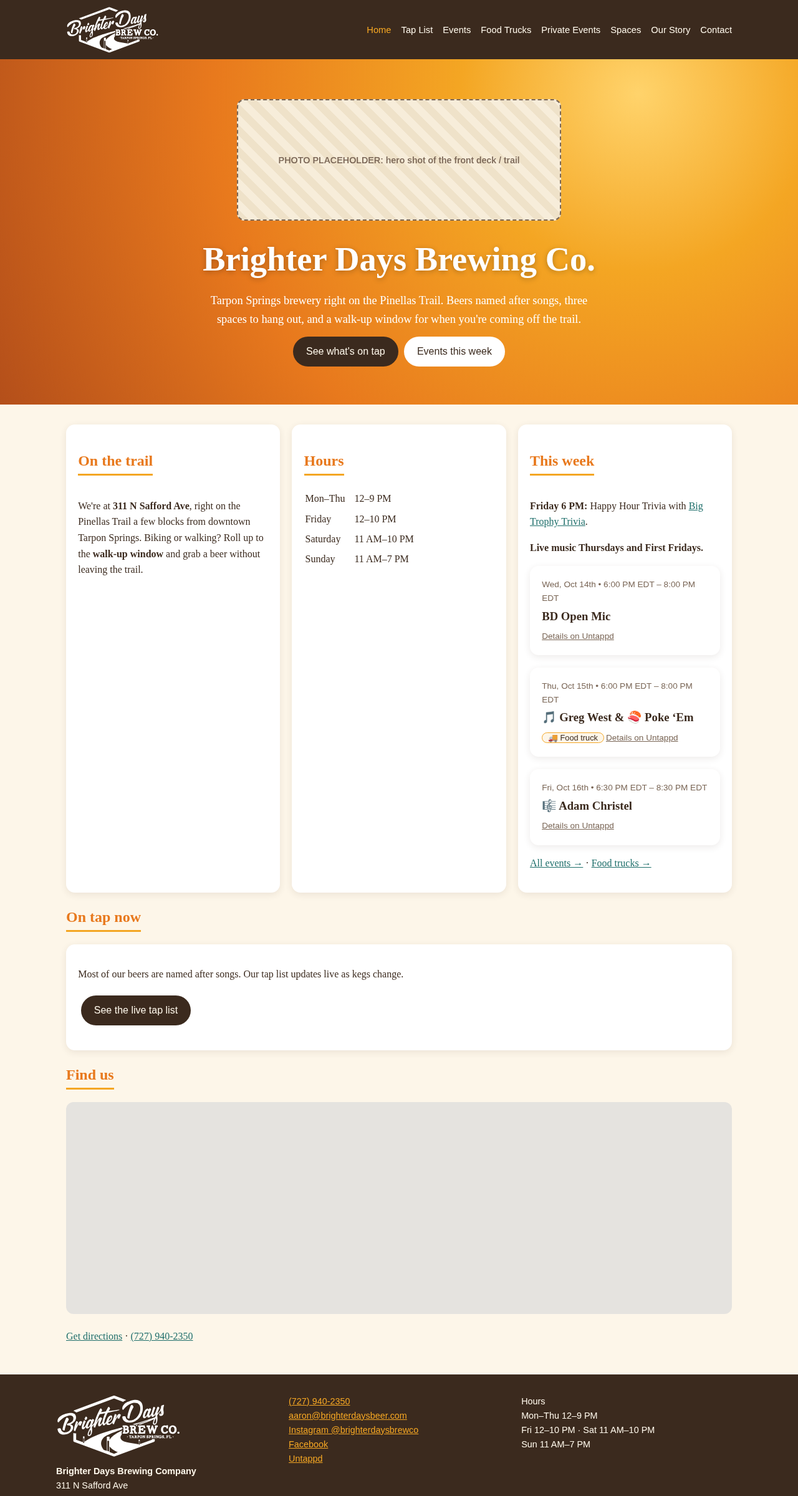
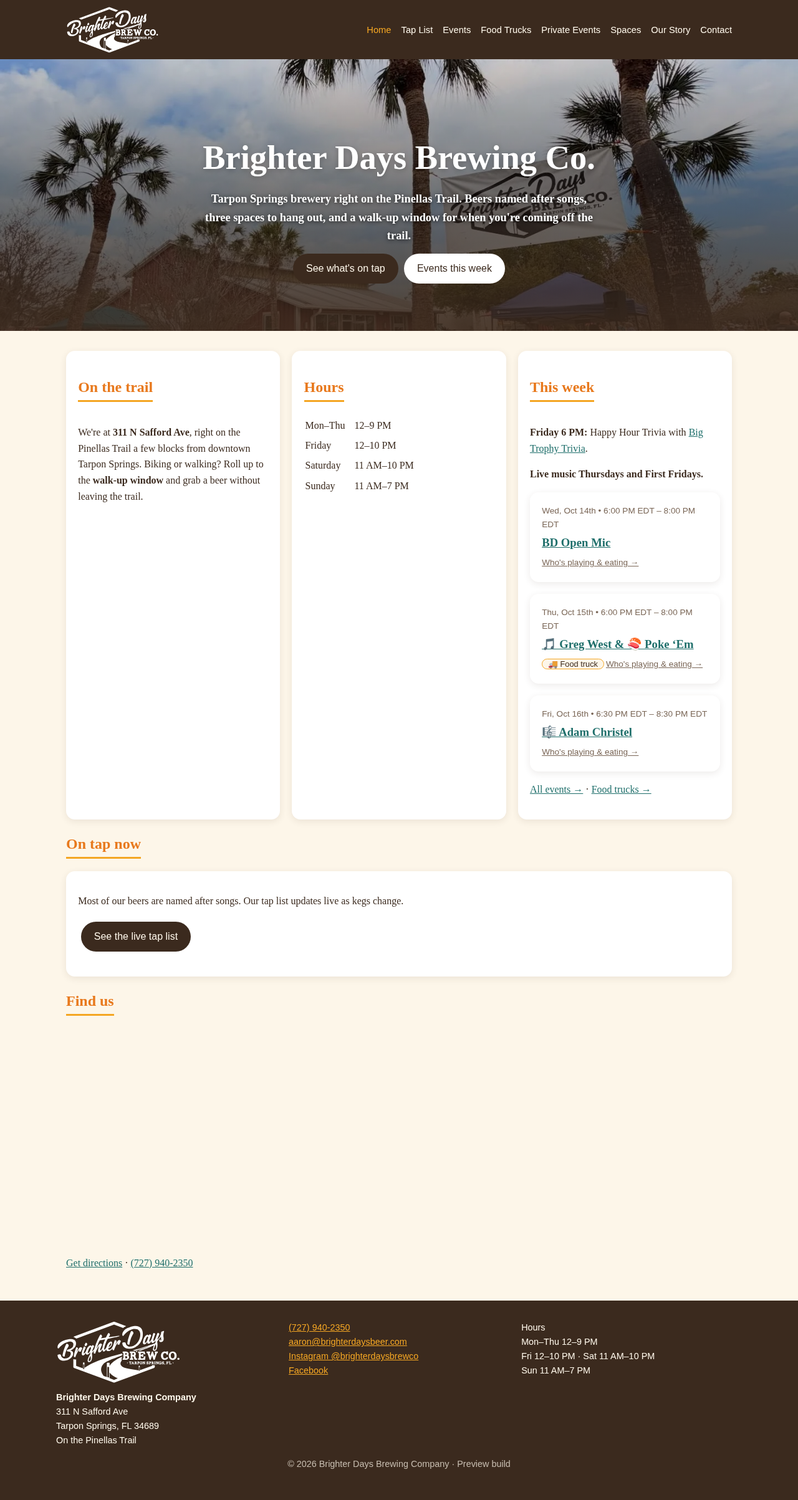
Remove customer-visible Untappd mentions; add home hero photo

diff --git a/index.html b/index.html
@@ -3,9 +3,8 @@
 <link rel="icon" href="favicon.ico" sizes="any"><link rel="icon" type="image/png" sizes="32x32" href="assets/img/logo/favicon-32.png"><link rel="icon" type="image/png" sizes="16x16" href="assets/img/logo/favicon-16.png"><link rel="icon" type="image/png" sizes="192x192" href="assets/img/logo/favicon-192.png"><link rel="apple-touch-icon" href="assets/img/logo/apple-touch-icon.png">
 <link rel="stylesheet" href="assets/style.css"></head><body>
 <header><div class="nav"><a class="logo" href="index.html" aria-label="Brighter Days Brew Co. home"><img class="logo-full" src="assets/img/logo/bd-logo-main-white.svg" alt="Brighter Days Brew Co., Tarpon Springs, FL" width="690" height="353"><img class="logo-mark" src="assets/img/logo/bd-starburst-white.png" alt="Brighter Days Brew Co." width="200" height="200"></a><button id="menuBtn" aria-label="Menu">☰</button><nav><ul><li><a href="index.html" class=on>Home</a></li><li><a href="taps.html">Tap List</a></li><li><a href="events.html">Events</a></li><li><a href="food-trucks.html">Food Trucks</a></li><li><a href="private-events.html">Private Events</a></li><li><a href="spaces.html">Spaces</a></li><li><a href="story.html">Our Story</a></li><li><a href="contact.html">Contact</a></li></ul></nav></div></header>
-<section class="hero"><div class="ph-img" style="max-width:520px;margin:0 auto 1.2rem;aspect-ratio:16/6;background-color:#fff3">PHOTO PLACEHOLDER: hero shot of the front deck / trail</div>
-<h1>Brighter Days Brewing Co.</h1><p>Tarpon Springs brewery right on the Pinellas Trail. Beers named after songs, three spaces to hang out, and a walk-up window for when you're coming off the trail.</p>
-<a class="btn" href="taps.html">See what's on tap</a><a class="btn alt" href="events.html">Events this week</a></section>
+<section class="hero photo"><picture><source srcset="assets/img/home-hero.webp" type="image/webp"><img class="hero-img" src="assets/img/home-hero.jpg" alt="Brighter Days Brew Co. banner among the palms outside the taproom on the Pinellas Trail" width="1440" height="810" fetchpriority="high"></picture><div class="hero-inner"><h1>Brighter Days Brewing Co.</h1><p>Tarpon Springs brewery right on the Pinellas Trail. Beers named after songs, three spaces to hang out, and a walk-up window for when you're coming off the trail.</p>
+<a class="btn" href="taps.html">See what's on tap</a><a class="btn alt" href="events.html">Events this week</a></div></section>
 <main><div class="grid">
 <div class="card"><h2>On the trail</h2><p>We're at <strong>311 N Safford Ave</strong>, right on the Pinellas Trail a few blocks from downtown Tarpon Springs. Biking or walking? Roll up to the <strong>walk-up window</strong> and grab a beer without leaving the trail.</p></div>
 <div class="card"><h2>Hours</h2><table class="hours"><tr><td>Mon–Thu</td><td>12–9 PM</td></tr><tr><td>Friday</td><td>12–10 PM</td></tr><tr><td>Saturday</td><td>11 AM–10 PM</td></tr><tr><td>Sunday</td><td>11 AM–7 PM</td></tr></table></div>
@@ -13,5 +12,5 @@
 </div>
 <h2>On tap now</h2><div class="card"><p>Most of our beers are named after songs. Our tap list updates live as kegs change.</p><p><a class="btn" href="taps.html">See the live tap list</a></p></div>
 <h2>Find us</h2><iframe class="map" loading="lazy" title="Map to 311 N Safford Ave, Tarpon Springs" src="https://maps.google.com/maps?q=311%20N%20Safford%20Ave%2C%20Tarpon%20Springs%2C%20FL%2034689&z=16&output=embed"></iframe><p><a href="https://www.google.com/maps/dir/?api=1&destination=311+N+Safford+Ave+Tarpon+Springs+FL+34689">Get directions</a> · <a href="tel:+17279402350">(727) 940-2350</a></p></main>
-<footer><div class="grid"><div><img src="assets/img/logo/bd-logo-main-white.svg" alt="Brighter Days Brew Co., Tarpon Springs, FL" style="width:200px;height:auto;display:block;margin-bottom:.6rem"><strong>Brighter Days Brewing Company</strong><br>311 N Safford Ave<br>Tarpon Springs, FL 34689<br>On the Pinellas Trail</div><div><a href="tel:+17279402350">(727) 940-2350</a><br><a href="mailto:aaron@brighterdaysbeer.com">aaron@brighterdaysbeer.com</a><br><a href="https://instagram.com/brighterdaysbrewco">Instagram @brighterdaysbrewco</a><br><a href="https://www.facebook.com/282372538847975">Facebook</a><br><a href="https://untappd.com/v/brighter-days-brewing-company/10061420">Untappd</a></div><div>Hours<br>Mon–Thu 12–9 PM<br>Fri 12–10 PM · Sat 11 AM–10 PM<br>Sun 11 AM–7 PM</div></div><p style="text-align:center;opacity:.7">© 2026 Brighter Days Brewing Company · Preview build</p></footer>
+<footer><div class="grid"><div><img src="assets/img/logo/bd-logo-main-white.svg" alt="Brighter Days Brew Co., Tarpon Springs, FL" style="width:200px;height:auto;display:block;margin-bottom:.6rem"><strong>Brighter Days Brewing Company</strong><br>311 N Safford Ave<br>Tarpon Springs, FL 34689<br>On the Pinellas Trail</div><div><a href="tel:+17279402350">(727) 940-2350</a><br><a href="mailto:aaron@brighterdaysbeer.com">aaron@brighterdaysbeer.com</a><br><a href="https://instagram.com/brighterdaysbrewco">Instagram @brighterdaysbrewco</a><br><a href="https://www.facebook.com/282372538847975">Facebook</a></div><div>Hours<br>Mon–Thu 12–9 PM<br>Fri 12–10 PM · Sat 11 AM–10 PM<br>Sun 11 AM–7 PM</div></div><p style="text-align:center;opacity:.7">© 2026 Brighter Days Brewing Company · Preview build</p></footer>
 <script src="assets/site.js"></script><script src="data/events.js"></script><script>renderEvents(document.getElementById("homeEvents"),3)</script></body></html>

diff --git a/event.html b/event.html
@@ -4,12 +4,12 @@
 <link rel="stylesheet" href="assets/style.css"></head><body>
 <header><div class="nav"><a class="logo" href="index.html" aria-label="Brighter Days Brew Co. home"><img class="logo-full" src="assets/img/logo/bd-logo-main-white.svg" alt="Brighter Days Brew Co., Tarpon Springs, FL" width="690" height="353"><img class="logo-mark" src="assets/img/logo/bd-starburst-white.png" alt="Brighter Days Brew Co." width="200" height="200"></a><button id="menuBtn" aria-label="Menu">☰</button><nav><ul><li><a href="index.html">Home</a></li><li><a href="taps.html">Tap List</a></li><li><a href="events.html">Events</a></li><li><a href="food-trucks.html">Food Trucks</a></li><li><a href="private-events.html">Private Events</a></li><li><a href="spaces.html">Spaces</a></li><li><a href="story.html">Our Story</a></li><li><a href="contact.html">Contact</a></li></ul></nav></div></header>
 <main><p class="small"><a href="events.html">← All events</a></p><div id="ev-detail"><p>Loading event…</p></div></main>
-<footer><div class="grid"><div><img src="assets/img/logo/bd-logo-main-white.svg" alt="Brighter Days Brew Co., Tarpon Springs, FL" style="width:200px;height:auto;display:block;margin-bottom:.6rem"><strong>Brighter Days Brewing Company</strong><br>311 N Safford Ave<br>Tarpon Springs, FL 34689<br>On the Pinellas Trail</div><div><a href="tel:+17279402350">(727) 940-2350</a><br><a href="mailto:aaron@brighterdaysbeer.com">aaron@brighterdaysbeer.com</a><br><a href="https://instagram.com/brighterdaysbrewco">Instagram @brighterdaysbrewco</a><br><a href="https://www.facebook.com/282372538847975">Facebook</a><br><a href="https://untappd.com/v/brighter-days-brewing-company/10061420">Untappd</a></div><div>Hours<br>Mon–Thu 12–9 PM<br>Fri 12–10 PM · Sat 11 AM–10 PM<br>Sun 11 AM–7 PM</div></div><p style="text-align:center;opacity:.7">© 2026 Brighter Days Brewing Company · Preview build</p></footer>
+<footer><div class="grid"><div><img src="assets/img/logo/bd-logo-main-white.svg" alt="Brighter Days Brew Co., Tarpon Springs, FL" style="width:200px;height:auto;display:block;margin-bottom:.6rem"><strong>Brighter Days Brewing Company</strong><br>311 N Safford Ave<br>Tarpon Springs, FL 34689<br>On the Pinellas Trail</div><div><a href="tel:+17279402350">(727) 940-2350</a><br><a href="mailto:aaron@brighterdaysbeer.com">aaron@brighterdaysbeer.com</a><br><a href="https://instagram.com/brighterdaysbrewco">Instagram @brighterdaysbrewco</a><br><a href="https://www.facebook.com/282372538847975">Facebook</a></div><div>Hours<br>Mon–Thu 12–9 PM<br>Fri 12–10 PM · Sat 11 AM–10 PM<br>Sun 11 AM–7 PM</div></div><p style="text-align:center;opacity:.7">© 2026 Brighter Days Brewing Company · Preview build</p></footer>
 <script src="assets/site.js"></script><script src="data/events.js"></script><script>
 (async()=>{const el=document.getElementById('ev-detail');const id=new URLSearchParams(location.search).get('id');const e=(window.BD_EVENTS?.events||[]).find(x=>x.id===id);
  if(!e){el.innerHTML='<h2>Event not found</h2><p>It may have passed. <a href="events.html">See upcoming events</a>.</p>';return}
  document.title=e.title.replace(/[^\p{L}\p{N}\s'&-]/gu,'').trim()+' | Brighter Days Brewing Company';
  const [perf,trucks]=await Promise.all([loadJSON('data/performers.json'),loadJSON('data/foodtrucks.json')]);
  const cards=[],plain=[];titleParts(e.title).forEach(p=>{const t=findEntry(p,trucks);if(t&&(t.menu||t.cuisine||Object.values(t.links||{}).some(Boolean))){cards.push(entryCard(t,'truck'));return}const m=findEntry(p,perf);const has=x=>x&&(x.bio||x.genre||Object.values(x.links||{}).some(Boolean));if(has(m)){cards.push(entryCard(m,'perf'));return}plain.push(p)});
- el.innerHTML=`<h2>${esc(e.title)}</h2><p><strong>${esc(e.when.replace(/ - .*• /,' – '))}</strong><br>Brighter Days Brewing Co., 311 N Safford Ave, Tarpon Springs</p>${cards.length?'<div class="grid">'+cards.join('')+'</div>':''}${plain.length?`<p>${plain.map(esc).join(' · ')}</p>`:''}<p class="small"><a href="${esc(e.url)}" target="_blank" rel="noopener">View on Untappd</a> · Lineups can change, so check <a href="https://instagram.com/brighterdaysbrewco">@brighterdaysbrewco</a>.</p>`})();
+ el.innerHTML=`<h2>${esc(e.title)}</h2><p><strong>${esc(e.when.replace(/ - .*• /,' – '))}</strong><br>Brighter Days Brewing Co., 311 N Safford Ave, Tarpon Springs</p>${cards.length?'<div class="grid">'+cards.join('')+'</div>':''}${plain.length?`<p>${plain.map(esc).join(' · ')}</p>`:''}<p class="small">Lineups can change, so check <a href="https://instagram.com/brighterdaysbrewco">@brighterdaysbrewco</a>.</p>`})();
 </script></body></html>

diff --git a/taps.html b/taps.html
@@ -3,9 +3,9 @@
 <link rel="icon" href="favicon.ico" sizes="any"><link rel="icon" type="image/png" sizes="32x32" href="assets/img/logo/favicon-32.png"><link rel="icon" type="image/png" sizes="16x16" href="assets/img/logo/favicon-16.png"><link rel="icon" type="image/png" sizes="192x192" href="assets/img/logo/favicon-192.png"><link rel="apple-touch-icon" href="assets/img/logo/apple-touch-icon.png">
 <link rel="stylesheet" href="assets/style.css"></head><body>
 <header><div class="nav"><a class="logo" href="index.html" aria-label="Brighter Days Brew Co. home"><img class="logo-full" src="assets/img/logo/bd-logo-main-white.svg" alt="Brighter Days Brew Co., Tarpon Springs, FL" width="690" height="353"><img class="logo-mark" src="assets/img/logo/bd-starburst-white.png" alt="Brighter Days Brew Co." width="200" height="200"></a><button id="menuBtn" aria-label="Menu">☰</button><nav><ul><li><a href="index.html">Home</a></li><li><a href="taps.html" class=on>Tap List</a></li><li><a href="events.html">Events</a></li><li><a href="food-trucks.html">Food Trucks</a></li><li><a href="private-events.html">Private Events</a></li><li><a href="spaces.html">Spaces</a></li><li><a href="story.html">Our Story</a></li><li><a href="contact.html">Contact</a></li></ul></nav></div></header>
-<main><h2>Tap list</h2><p>Most of our beers are named after songs. Here's what's pouring right now, straight from our <a href="https://untappd.com/v/brighter-days-brewing-company/10061420">Untappd menu</a>.</p><div id="menu-container"></div>
+<main><h2>Tap list</h2><p>Most of our beers are named after songs. Here's what's pouring right now.</p><div id="menu-container"></div>
 <script type="text/javascript">
 !function(e,t){var n=document.createElement("script"),a=document.getElementsByTagName("script")[0];n.async=1,a.parentNode.insertBefore(n,a),n.onload=n.onreadystatechange=function(e,a){(a||!n.readyState||/loaded|complete/.test(n.readyState))&&(n.onload=n.onreadystatechange=null,a||t&&t())},n.src=e}("https://embed-menu-preloader.untappdapi.com/embed-menu-preloader.min.js",(function(){PreloadEmbedMenu("menu-container",48872,174590)}));
-</script><noscript><p>Turn on JavaScript to see the tap list, or <a href="https://untappd.com/v/brighter-days-brewing-company/10061420">view it on Untappd</a>.</p></noscript></main>
-<footer><div class="grid"><div><img src="assets/img/logo/bd-logo-main-white.svg" alt="Brighter Days Brew Co., Tarpon Springs, FL" style="width:200px;height:auto;display:block;margin-bottom:.6rem"><strong>Brighter Days Brewing Company</strong><br>311 N Safford Ave<br>Tarpon Springs, FL 34689<br>On the Pinellas Trail</div><div><a href="tel:+17279402350">(727) 940-2350</a><br><a href="mailto:aaron@brighterdaysbeer.com">aaron@brighterdaysbeer.com</a><br><a href="https://instagram.com/brighterdaysbrewco">Instagram @brighterdaysbrewco</a><br><a href="https://www.facebook.com/282372538847975">Facebook</a><br><a href="https://untappd.com/v/brighter-days-brewing-company/10061420">Untappd</a></div><div>Hours<br>Mon–Thu 12–9 PM<br>Fri 12–10 PM · Sat 11 AM–10 PM<br>Sun 11 AM–7 PM</div></div><p style="text-align:center;opacity:.7">© 2026 Brighter Days Brewing Company · Preview build</p></footer>
+</script><noscript><p>Turn on JavaScript to see the tap list, or call us at <a href="tel:+17279402350">(727) 940-2350</a>.</p></noscript></main>
+<footer><div class="grid"><div><img src="assets/img/logo/bd-logo-main-white.svg" alt="Brighter Days Brew Co., Tarpon Springs, FL" style="width:200px;height:auto;display:block;margin-bottom:.6rem"><strong>Brighter Days Brewing Company</strong><br>311 N Safford Ave<br>Tarpon Springs, FL 34689<br>On the Pinellas Trail</div><div><a href="tel:+17279402350">(727) 940-2350</a><br><a href="mailto:aaron@brighterdaysbeer.com">aaron@brighterdaysbeer.com</a><br><a href="https://instagram.com/brighterdaysbrewco">Instagram @brighterdaysbrewco</a><br><a href="https://www.facebook.com/282372538847975">Facebook</a></div><div>Hours<br>Mon–Thu 12–9 PM<br>Fri 12–10 PM · Sat 11 AM–10 PM<br>Sun 11 AM–7 PM</div></div><p style="text-align:center;opacity:.7">© 2026 Brighter Days Brewing Company · Preview build</p></footer>
 <script src="assets/site.js"></script></body></html>

diff --git a/events.html b/events.html
@@ -3,6 +3,6 @@
 <link rel="icon" href="favicon.ico" sizes="any"><link rel="icon" type="image/png" sizes="32x32" href="assets/img/logo/favicon-32.png"><link rel="icon" type="image/png" sizes="16x16" href="assets/img/logo/favicon-16.png"><link rel="icon" type="image/png" sizes="192x192" href="assets/img/logo/favicon-192.png"><link rel="apple-touch-icon" href="assets/img/logo/apple-touch-icon.png">
 <link rel="stylesheet" href="assets/style.css"></head><body>
 <header><div class="nav"><a class="logo" href="index.html" aria-label="Brighter Days Brew Co. home"><img class="logo-full" src="assets/img/logo/bd-logo-main-white.svg" alt="Brighter Days Brew Co., Tarpon Springs, FL" width="690" height="353"><img class="logo-mark" src="assets/img/logo/bd-starburst-white.png" alt="Brighter Days Brew Co." width="200" height="200"></a><button id="menuBtn" aria-label="Menu">☰</button><nav><ul><li><a href="index.html">Home</a></li><li><a href="taps.html">Tap List</a></li><li><a href="events.html" class=on>Events</a></li><li><a href="food-trucks.html">Food Trucks</a></li><li><a href="private-events.html">Private Events</a></li><li><a href="spaces.html">Spaces</a></li><li><a href="story.html">Our Story</a></li><li><a href="contact.html">Contact</a></li></ul></nav></div></header>
-<main><h2>Events</h2><div class="card" style="margin-bottom:1rem"><strong>Every Friday, 6 PM:</strong> Happy Hour Trivia hosted by <a href="https://bigtrophytrivia.com/brighter-days">Big Trophy Trivia</a>.</div><div class="card" style="margin-bottom:1rem"><strong>Live music Thursdays and First Fridays.</strong></div><h3>Coming up</h3><div id="ev"></div><p class="small">Events are pulled from our Untappd venue page.</p></main>
-<footer><div class="grid"><div><img src="assets/img/logo/bd-logo-main-white.svg" alt="Brighter Days Brew Co., Tarpon Springs, FL" style="width:200px;height:auto;display:block;margin-bottom:.6rem"><strong>Brighter Days Brewing Company</strong><br>311 N Safford Ave<br>Tarpon Springs, FL 34689<br>On the Pinellas Trail</div><div><a href="tel:+17279402350">(727) 940-2350</a><br><a href="mailto:aaron@brighterdaysbeer.com">aaron@brighterdaysbeer.com</a><br><a href="https://instagram.com/brighterdaysbrewco">Instagram @brighterdaysbrewco</a><br><a href="https://www.facebook.com/282372538847975">Facebook</a><br><a href="https://untappd.com/v/brighter-days-brewing-company/10061420">Untappd</a></div><div>Hours<br>Mon–Thu 12–9 PM<br>Fri 12–10 PM · Sat 11 AM–10 PM<br>Sun 11 AM–7 PM</div></div><p style="text-align:center;opacity:.7">© 2026 Brighter Days Brewing Company · Preview build</p></footer>
+<main><h2>Events</h2><div class="card" style="margin-bottom:1rem"><strong>Every Friday, 6 PM:</strong> Happy Hour Trivia hosted by <a href="https://bigtrophytrivia.com/brighter-days">Big Trophy Trivia</a>.</div><div class="card" style="margin-bottom:1rem"><strong>Live music Thursdays and First Fridays.</strong></div><h3>Coming up</h3><div id="ev"></div></main>
+<footer><div class="grid"><div><img src="assets/img/logo/bd-logo-main-white.svg" alt="Brighter Days Brew Co., Tarpon Springs, FL" style="width:200px;height:auto;display:block;margin-bottom:.6rem"><strong>Brighter Days Brewing Company</strong><br>311 N Safford Ave<br>Tarpon Springs, FL 34689<br>On the Pinellas Trail</div><div><a href="tel:+17279402350">(727) 940-2350</a><br><a href="mailto:aaron@brighterdaysbeer.com">aaron@brighterdaysbeer.com</a><br><a href="https://instagram.com/brighterdaysbrewco">Instagram @brighterdaysbrewco</a><br><a href="https://www.facebook.com/282372538847975">Facebook</a></div><div>Hours<br>Mon–Thu 12–9 PM<br>Fri 12–10 PM · Sat 11 AM–10 PM<br>Sun 11 AM–7 PM</div></div><p style="text-align:center;opacity:.7">© 2026 Brighter Days Brewing Company · Preview build</p></footer>
 <script src="assets/site.js"></script><script src="data/events.js"></script><script>renderEvents(document.getElementById("ev"))</script></body></html>

diff --git a/contact.html b/contact.html
@@ -4,5 +4,5 @@
 <link rel="stylesheet" href="assets/style.css"></head><body>
 <header><div class="nav"><a class="logo" href="index.html" aria-label="Brighter Days Brew Co. home"><img class="logo-full" src="assets/img/logo/bd-logo-main-white.svg" alt="Brighter Days Brew Co., Tarpon Springs, FL" width="690" height="353"><img class="logo-mark" src="assets/img/logo/bd-starburst-white.png" alt="Brighter Days Brew Co." width="200" height="200"></a><button id="menuBtn" aria-label="Menu">☰</button><nav><ul><li><a href="index.html">Home</a></li><li><a href="taps.html">Tap List</a></li><li><a href="events.html">Events</a></li><li><a href="food-trucks.html">Food Trucks</a></li><li><a href="private-events.html">Private Events</a></li><li><a href="spaces.html">Spaces</a></li><li><a href="story.html">Our Story</a></li><li><a href="contact.html" class=on>Contact</a></li></ul></nav></div></header>
 <main><h2>Contact & visit</h2><div class="grid"><div class="card"><h3>Brighter Days Brewing Company</h3><p>311 N Safford Ave<br>Tarpon Springs, FL 34689</p><p><a href="tel:+17279402350">(727) 940-2350</a></p><p><a href="https://instagram.com/brighterdaysbrewco">Instagram @brighterdaysbrewco</a><br><a href="https://www.facebook.com/282372538847975">Facebook</a></p><p>Email: <a href="mailto:aaron@brighterdaysbeer.com">aaron@brighterdaysbeer.com</a></p></div><div class="card"><h3>Hours</h3><table class="hours"><tr><td>Mon–Thu</td><td>12–9 PM</td></tr><tr><td>Friday</td><td>12–10 PM</td></tr><tr><td>Saturday</td><td>11 AM–10 PM</td></tr><tr><td>Sunday</td><td>11 AM–7 PM</td></tr></table></div></div><h3>Map</h3><iframe class="map" loading="lazy" title="Map to 311 N Safford Ave, Tarpon Springs" src="https://maps.google.com/maps?q=311%20N%20Safford%20Ave%2C%20Tarpon%20Springs%2C%20FL%2034689&z=16&output=embed"></iframe></main>
-<footer><div class="grid"><div><img src="assets/img/logo/bd-logo-main-white.svg" alt="Brighter Days Brew Co., Tarpon Springs, FL" style="width:200px;height:auto;display:block;margin-bottom:.6rem"><strong>Brighter Days Brewing Company</strong><br>311 N Safford Ave<br>Tarpon Springs, FL 34689<br>On the Pinellas Trail</div><div><a href="tel:+17279402350">(727) 940-2350</a><br><a href="mailto:aaron@brighterdaysbeer.com">aaron@brighterdaysbeer.com</a><br><a href="https://instagram.com/brighterdaysbrewco">Instagram @brighterdaysbrewco</a><br><a href="https://www.facebook.com/282372538847975">Facebook</a><br><a href="https://untappd.com/v/brighter-days-brewing-company/10061420">Untappd</a></div><div>Hours<br>Mon–Thu 12–9 PM<br>Fri 12–10 PM · Sat 11 AM–10 PM<br>Sun 11 AM–7 PM</div></div><p style="text-align:center;opacity:.7">© 2026 Brighter Days Brewing Company · Preview build</p></footer>
+<footer><div class="grid"><div><img src="assets/img/logo/bd-logo-main-white.svg" alt="Brighter Days Brew Co., Tarpon Springs, FL" style="width:200px;height:auto;display:block;margin-bottom:.6rem"><strong>Brighter Days Brewing Company</strong><br>311 N Safford Ave<br>Tarpon Springs, FL 34689<br>On the Pinellas Trail</div><div><a href="tel:+17279402350">(727) 940-2350</a><br><a href="mailto:aaron@brighterdaysbeer.com">aaron@brighterdaysbeer.com</a><br><a href="https://instagram.com/brighterdaysbrewco">Instagram @brighterdaysbrewco</a><br><a href="https://www.facebook.com/282372538847975">Facebook</a></div><div>Hours<br>Mon–Thu 12–9 PM<br>Fri 12–10 PM · Sat 11 AM–10 PM<br>Sun 11 AM–7 PM</div></div><p style="text-align:center;opacity:.7">© 2026 Brighter Days Brewing Company · Preview build</p></footer>
 <script src="assets/site.js"></script></body></html>

diff --git a/story.html b/story.html
@@ -4,5 +4,5 @@
 <link rel="stylesheet" href="assets/style.css"></head><body>
 <header><div class="nav"><a class="logo" href="index.html" aria-label="Brighter Days Brew Co. home"><img class="logo-full" src="assets/img/logo/bd-logo-main-white.svg" alt="Brighter Days Brew Co., Tarpon Springs, FL" width="690" height="353"><img class="logo-mark" src="assets/img/logo/bd-starburst-white.png" alt="Brighter Days Brew Co." width="200" height="200"></a><button id="menuBtn" aria-label="Menu">☰</button><nav><ul><li><a href="index.html">Home</a></li><li><a href="taps.html">Tap List</a></li><li><a href="events.html">Events</a></li><li><a href="food-trucks.html">Food Trucks</a></li><li><a href="private-events.html">Private Events</a></li><li><a href="spaces.html">Spaces</a></li><li><a href="story.html" class=on>Our Story</a></li><li><a href="contact.html">Contact</a></li></ul></nav></div></header>
 <main><h2>Our story</h2><div class="grid"><div class="card"><p>We opened in 2020 with one idea: a big patio, cold beer, and live music most nights. Six years later, that's still the whole plan.</p><p>Music is the heartbeat here, and every beer we brew is named after a song. Thursdays and First Fridays bring bands to the taproom, from funk and soul to jam-band improv and laid-back country.</p><p>Three rooms, one easy vibe: the indoor bar, the open-air garage with the game on, and a big deck right off the Pinellas Trail, with Adirondack chairs and umbrellas. Our walk-up window means bikers and trail walkers are as much a part of the crowd as the regulars.</p><p>We're family-friendly and dog-friendly. Since 2022, every March we've hosted the 5K for Autism, which funds the Heart 4 Kids scholarship.</p></div><div class="ph-img">PHOTO PLACEHOLDER: owner / brewhouse</div></div></main>
-<footer><div class="grid"><div><img src="assets/img/logo/bd-logo-main-white.svg" alt="Brighter Days Brew Co., Tarpon Springs, FL" style="width:200px;height:auto;display:block;margin-bottom:.6rem"><strong>Brighter Days Brewing Company</strong><br>311 N Safford Ave<br>Tarpon Springs, FL 34689<br>On the Pinellas Trail</div><div><a href="tel:+17279402350">(727) 940-2350</a><br><a href="mailto:aaron@brighterdaysbeer.com">aaron@brighterdaysbeer.com</a><br><a href="https://instagram.com/brighterdaysbrewco">Instagram @brighterdaysbrewco</a><br><a href="https://www.facebook.com/282372538847975">Facebook</a><br><a href="https://untappd.com/v/brighter-days-brewing-company/10061420">Untappd</a></div><div>Hours<br>Mon–Thu 12–9 PM<br>Fri 12–10 PM · Sat 11 AM–10 PM<br>Sun 11 AM–7 PM</div></div><p style="text-align:center;opacity:.7">© 2026 Brighter Days Brewing Company · Preview build</p></footer>
+<footer><div class="grid"><div><img src="assets/img/logo/bd-logo-main-white.svg" alt="Brighter Days Brew Co., Tarpon Springs, FL" style="width:200px;height:auto;display:block;margin-bottom:.6rem"><strong>Brighter Days Brewing Company</strong><br>311 N Safford Ave<br>Tarpon Springs, FL 34689<br>On the Pinellas Trail</div><div><a href="tel:+17279402350">(727) 940-2350</a><br><a href="mailto:aaron@brighterdaysbeer.com">aaron@brighterdaysbeer.com</a><br><a href="https://instagram.com/brighterdaysbrewco">Instagram @brighterdaysbrewco</a><br><a href="https://www.facebook.com/282372538847975">Facebook</a></div><div>Hours<br>Mon–Thu 12–9 PM<br>Fri 12–10 PM · Sat 11 AM–10 PM<br>Sun 11 AM–7 PM</div></div><p style="text-align:center;opacity:.7">© 2026 Brighter Days Brewing Company · Preview build</p></footer>
 <script src="assets/site.js"></script></body></html>

diff --git a/food-trucks.html b/food-trucks.html
@@ -4,8 +4,8 @@
 <link rel="stylesheet" href="assets/style.css"></head><body>
 <header><div class="nav"><a class="logo" href="index.html" aria-label="Brighter Days Brew Co. home"><img class="logo-full" src="assets/img/logo/bd-logo-main-white.svg" alt="Brighter Days Brew Co., Tarpon Springs, FL" width="690" height="353"><img class="logo-mark" src="assets/img/logo/bd-starburst-white.png" alt="Brighter Days Brew Co." width="200" height="200"></a><button id="menuBtn" aria-label="Menu">☰</button><nav><ul><li><a href="index.html">Home</a></li><li><a href="taps.html">Tap List</a></li><li><a href="events.html">Events</a></li><li><a href="food-trucks.html" class=on>Food Trucks</a></li><li><a href="private-events.html">Private Events</a></li><li><a href="spaces.html">Spaces</a></li><li><a href="story.html">Our Story</a></li><li><a href="contact.html">Contact</a></li></ul></nav></div></header>
 <main><h2>Food trucks</h2><p>Food trucks and pop-ups posted for this week and next.</p><p class="flag" style="background:#fff;border-left-color:var(--sun)">Food schedules change. Check here or Instagram <a href="https://instagram.com/brighterdaysbrewco">@brighterdaysbrewco</a> for the latest.</p><div id="weeks"></div>
-<p class="small">Truck listings come from our Untappd events.</p></main>
-<footer><div class="grid"><div><img src="assets/img/logo/bd-logo-main-white.svg" alt="Brighter Days Brew Co., Tarpon Springs, FL" style="width:200px;height:auto;display:block;margin-bottom:.6rem"><strong>Brighter Days Brewing Company</strong><br>311 N Safford Ave<br>Tarpon Springs, FL 34689<br>On the Pinellas Trail</div><div><a href="tel:+17279402350">(727) 940-2350</a><br><a href="mailto:aaron@brighterdaysbeer.com">aaron@brighterdaysbeer.com</a><br><a href="https://instagram.com/brighterdaysbrewco">Instagram @brighterdaysbrewco</a><br><a href="https://www.facebook.com/282372538847975">Facebook</a><br><a href="https://untappd.com/v/brighter-days-brewing-company/10061420">Untappd</a></div><div>Hours<br>Mon–Thu 12–9 PM<br>Fri 12–10 PM · Sat 11 AM–10 PM<br>Sun 11 AM–7 PM</div></div><p style="text-align:center;opacity:.7">© 2026 Brighter Days Brewing Company · Preview build</p></footer>
+</main>
+<footer><div class="grid"><div><img src="assets/img/logo/bd-logo-main-white.svg" alt="Brighter Days Brew Co., Tarpon Springs, FL" style="width:200px;height:auto;display:block;margin-bottom:.6rem"><strong>Brighter Days Brewing Company</strong><br>311 N Safford Ave<br>Tarpon Springs, FL 34689<br>On the Pinellas Trail</div><div><a href="tel:+17279402350">(727) 940-2350</a><br><a href="mailto:aaron@brighterdaysbeer.com">aaron@brighterdaysbeer.com</a><br><a href="https://instagram.com/brighterdaysbrewco">Instagram @brighterdaysbrewco</a><br><a href="https://www.facebook.com/282372538847975">Facebook</a></div><div>Hours<br>Mon–Thu 12–9 PM<br>Fri 12–10 PM · Sat 11 AM–10 PM<br>Sun 11 AM–7 PM</div></div><p style="text-align:center;opacity:.7">© 2026 Brighter Days Brewing Company · Preview build</p></footer>
 <script src="assets/site.js"></script><script src="data/events.js"></script><script>
 const el=document.getElementById('weeks');const ev=upcoming().filter(e=>e.trucks.length);
 const mon=new Date();mon.setHours(0,0,0,0);mon.setDate(mon.getDate()-((mon.getDay()+6)%7));

diff --git a/private-events.html b/private-events.html
@@ -25,7 +25,7 @@
 <div id="pe-status" role="alert" aria-live="polite"></div>
 </form></div>
 <p class="small">Prefer email? <a href="mailto:aaron@brighterdaysbeer.com">aaron@brighterdaysbeer.com</a> · or call <a href="tel:+17279402350">(727) 940-2350</a></p></main>
-<footer><div class="grid"><div><img src="assets/img/logo/bd-logo-main-white.svg" alt="Brighter Days Brew Co., Tarpon Springs, FL" style="width:200px;height:auto;display:block;margin-bottom:.6rem"><strong>Brighter Days Brewing Company</strong><br>311 N Safford Ave<br>Tarpon Springs, FL 34689<br>On the Pinellas Trail</div><div><a href="tel:+17279402350">(727) 940-2350</a><br><a href="mailto:aaron@brighterdaysbeer.com">aaron@brighterdaysbeer.com</a><br><a href="https://instagram.com/brighterdaysbrewco">Instagram @brighterdaysbrewco</a><br><a href="https://www.facebook.com/282372538847975">Facebook</a><br><a href="https://untappd.com/v/brighter-days-brewing-company/10061420">Untappd</a></div><div>Hours<br>Mon–Thu 12–9 PM<br>Fri 12–10 PM · Sat 11 AM–10 PM<br>Sun 11 AM–7 PM</div></div><p style="text-align:center;opacity:.7">© 2026 Brighter Days Brewing Company · Preview build</p></footer>
+<footer><div class="grid"><div><img src="assets/img/logo/bd-logo-main-white.svg" alt="Brighter Days Brew Co., Tarpon Springs, FL" style="width:200px;height:auto;display:block;margin-bottom:.6rem"><strong>Brighter Days Brewing Company</strong><br>311 N Safford Ave<br>Tarpon Springs, FL 34689<br>On the Pinellas Trail</div><div><a href="tel:+17279402350">(727) 940-2350</a><br><a href="mailto:aaron@brighterdaysbeer.com">aaron@brighterdaysbeer.com</a><br><a href="https://instagram.com/brighterdaysbrewco">Instagram @brighterdaysbrewco</a><br><a href="https://www.facebook.com/282372538847975">Facebook</a></div><div>Hours<br>Mon–Thu 12–9 PM<br>Fri 12–10 PM · Sat 11 AM–10 PM<br>Sun 11 AM–7 PM</div></div><p style="text-align:center;opacity:.7">© 2026 Brighter Days Brewing Company · Preview build</p></footer>
 <script src="assets/site.js"></script><script>
 (function(){const f=document.getElementById('pe'),st=document.getElementById('pe-status'),btn=f.querySelector('button[type=submit]');
 f.addEventListener('submit',async e=>{e.preventDefault();if(!f.reportValidity())return;btn.disabled=true;btn.textContent='Sending...';st.innerHTML='';

diff --git a/assets/site.js b/assets/site.js
@@ -1,9 +1,6 @@
 document.getElementById('menuBtn').onclick=()=>document.querySelector('nav').classList.toggle('open');
 const esc=s=>String(s??'').replace(/[&<>"]/g,c=>({'&':'&amp;','<':'&lt;','>':'&gt;','"':'&quot;'}[c]));
 const fmtDate=iso=>new Date(iso).toLocaleString('en-US',{weekday:'short',month:'short',day:'numeric',hour:'numeric',minute:'2-digit'});
-function renderTaps(el,limit){const d=window.BD_TAPLIST;if(!d){el.innerHTML='<p>Tap list unavailable. <a href="https://untappd.com/v/brighter-days-brewing-company/10061420">See it on Untappd</a>.</p>';return}
- let h='';d.sections.forEach(s=>{const bs=limit?s.beers.slice(0,limit):s.beers;if(!limit)h+=`<h3>${esc(s.title)}</h3>`;h+='<div class="grid">'+bs.map(b=>`<div class="card beer"><img src="${esc(b.label)}" alt="${esc(b.name)} label" loading="lazy"><div><h3><a href="${esc(b.url)}" target="_blank" rel="noopener">${esc(b.name)}</a></h3><div class="style">${esc(b.style)}</div><span class="pill">${esc(b.abv)}</span>${b.ibu&&!/N\/A/.test(b.ibu)?`<span class="pill">${esc(b.ibu)}</span>`:''}${b.prices.map(p=>`<span class="pill">${esc(p.size)} ${esc(p.price.replace(' USD',''))}</span>`).join('')}${b.brewery&&!/Brighter Days/.test(b.brewery)?`<div class="small">Guest: ${esc(b.brewery)}</div>`:''}</div></div>`).join('')+'</div>'});
- el.innerHTML=h+`<p class="small">Synced from Untappd on ${fmtDate(d.fetched)}. Taps change often, so the bar has the final word.</p>`}
 function upcoming(){const d=window.BD_EVENTS;if(!d)return[];const t=new Date();t.setHours(0,0,0,0);return d.events.filter(e=>e.start&&new Date(e.start)>=t)}
 function renderEvents(el,limit){let ev=upcoming();if(limit)ev=ev.slice(0,limit);el.innerHTML=ev.length?'<div class="grid">'+ev.map(e=>`<div class="card"><div class="small">${esc(e.when.replace(/ - .*• /,' – '))}</div><h3 style="margin:.2rem 0"><a href="event.html?id=${esc(e.id)}">${esc(e.title)}</a></h3>${e.trucks.length?`<span class="pill">🚚 Food truck</span>`:''}<a class="small" href="event.html?id=${esc(e.id)}">Who's playing &amp; eating →</a></div>`).join('')+'</div>':'<p>No upcoming events posted yet. Check back soon or follow <a href="https://instagram.com/brighterdaysbrewco">@brighterdaysbrewco</a>.</p>'}
 // ---- event detail matching (data/performers.json + data/foodtrucks.json are the single source of truth)

diff --git a/spaces.html b/spaces.html
@@ -9,5 +9,5 @@
 <div class="card"><div class="ph-img">PHOTO PLACEHOLDER: front deck</div><h3>Front deck</h3><p>Adirondack chairs and umbrellas out front.</p></div>
 <div class="card"><div class="ph-img">PHOTO PLACEHOLDER: walk-up window</div><h3>Walk-up window</h3><p>Coming off the Pinellas Trail? Grab a beer at the window.</p></div></div>
 <p><a class="btn" href="private-events.html">Book a space</a></p></main>
-<footer><div class="grid"><div><img src="assets/img/logo/bd-logo-main-white.svg" alt="Brighter Days Brew Co., Tarpon Springs, FL" style="width:200px;height:auto;display:block;margin-bottom:.6rem"><strong>Brighter Days Brewing Company</strong><br>311 N Safford Ave<br>Tarpon Springs, FL 34689<br>On the Pinellas Trail</div><div><a href="tel:+17279402350">(727) 940-2350</a><br><a href="mailto:aaron@brighterdaysbeer.com">aaron@brighterdaysbeer.com</a><br><a href="https://instagram.com/brighterdaysbrewco">Instagram @brighterdaysbrewco</a><br><a href="https://www.facebook.com/282372538847975">Facebook</a><br><a href="https://untappd.com/v/brighter-days-brewing-company/10061420">Untappd</a></div><div>Hours<br>Mon–Thu 12–9 PM<br>Fri 12–10 PM · Sat 11 AM–10 PM<br>Sun 11 AM–7 PM</div></div><p style="text-align:center;opacity:.7">© 2026 Brighter Days Brewing Company · Preview build</p></footer>
+<footer><div class="grid"><div><img src="assets/img/logo/bd-logo-main-white.svg" alt="Brighter Days Brew Co., Tarpon Springs, FL" style="width:200px;height:auto;display:block;margin-bottom:.6rem"><strong>Brighter Days Brewing Company</strong><br>311 N Safford Ave<br>Tarpon Springs, FL 34689<br>On the Pinellas Trail</div><div><a href="tel:+17279402350">(727) 940-2350</a><br><a href="mailto:aaron@brighterdaysbeer.com">aaron@brighterdaysbeer.com</a><br><a href="https://instagram.com/brighterdaysbrewco">Instagram @brighterdaysbrewco</a><br><a href="https://www.facebook.com/282372538847975">Facebook</a></div><div>Hours<br>Mon–Thu 12–9 PM<br>Fri 12–10 PM · Sat 11 AM–10 PM<br>Sun 11 AM–7 PM</div></div><p style="text-align:center;opacity:.7">© 2026 Brighter Days Brewing Company · Preview build</p></footer>
 <script src="assets/site.js"></script></body></html>

diff --git a/assets/style.css b/assets/style.css
@@ -43,3 +43,13 @@ form input:focus,form select:focus,form textarea:focus,.btn:focus-visible{outlin
 .none-note{display:none;font:.9rem sans-serif;color:var(--muted);padding:.4rem 0}
 iframe,img,video{max-width:100%}#menu-container{max-width:100%;overflow-x:auto}
 .ecard{display:flex;gap:1rem;align-items:flex-start}.ecard h3{margin:.3rem 0 .1rem}.ecard-img{width:96px;height:96px;flex:0 0 96px;aspect-ratio:1;border-radius:12px;object-fit:cover;font-size:2rem;padding:0}@media(max-width:480px){.ecard{flex-direction:column}}
+/* Untappd embed: hide its Menu/Events tab bar and make beer/brewery names plain text (no links out) */
+#menu-container .menu-list{display:none!important}
+#menu-container a.untappd-beer-url,#menu-container a[href*="untappd.com"]{pointer-events:none;cursor:default;text-decoration:none}
+/* home hero photo */
+.hero.photo{position:relative;background:#3b2a1e;padding:0;overflow:hidden}
+.hero.photo picture,.hero.photo img.hero-img{position:absolute;inset:0;width:100%;height:100%}
+.hero.photo img.hero-img{object-fit:cover;object-position:center 45%}
+.hero.photo .hero-inner{position:relative;padding:7rem 1rem 4.5rem;background:linear-gradient(180deg,#0000 0,#0004 35%,#3b2a1ecc 100%)}
+@media(max-width:600px){.hero.photo .hero-inner{padding:5rem 1rem 3rem}}
+.hero.photo .hero-inner{background:linear-gradient(180deg,#0003 0,#00000080 45%,#3b2a1ee6 100%)}.hero.photo p{text-shadow:0 1px 6px #000c;font-weight:600}

diff --git a/REVIEW-NOTES.md b/REVIEW-NOTES.md
@@ -54,6 +54,15 @@ The form on private-events.html posts to Formspree. Until the placeholder is rep
 - `.github/workflows/update-events.yml`: every 30 min plus workflow_dispatch. It commits `data/events.*` only if changed (`permissions: contents: write`). It runs only once the site is put in a GitHub repo.
 - `.nojekyll`, `README.md`, local git repo with an initial commit.
 
+## Untappd visibility (Aaron, Oct 13)
+- All customer-visible Untappd wording and links are removed from the pages: footer link, "pulled from Untappd" notes, noscript link, "View on Untappd". Data plumbing is unchanged.
+- The embed shows no visible Untappd logo or "powered by" text. In our CSS (assets/style.css) we hide its Menu/Events tab bar and make beer/brewery names non-clickable (they linked to untappd.com). We did NOT remove its screen-reader-only "Rated X on Untappd" text or the cap-rating icons.
+- Untappd for Business embed terms were not checked. If UfB requires attribution or links, remove those two CSS rules.
+
+## Home hero photo
+- `assets/img/home-hero.webp` (~247 KB) and `.jpg` fallback (~282 KB), 1440×810. Cropped from Aaron's Facebook photo `123_outdoor-palms.jpg`: taproom exterior, palms, Brighter Days banner, no faces. The source is only 1440px, so it wasn't upscaled to 1920.
+- Note: several facebook-photos filenames don't match their contents (e.g. 049 is a Steve D's promo graphic, 120 is a person posing at the 5K start).
+
 ## Other open items
 - Map embed is the keyless Google Maps iframe. Swap it for the Maps Embed API with a key if preferred.
 - Yelp/TripAdvisor/Google listing fixes and pointing Google's website field to brighterdaysbeer.com come after launch.
